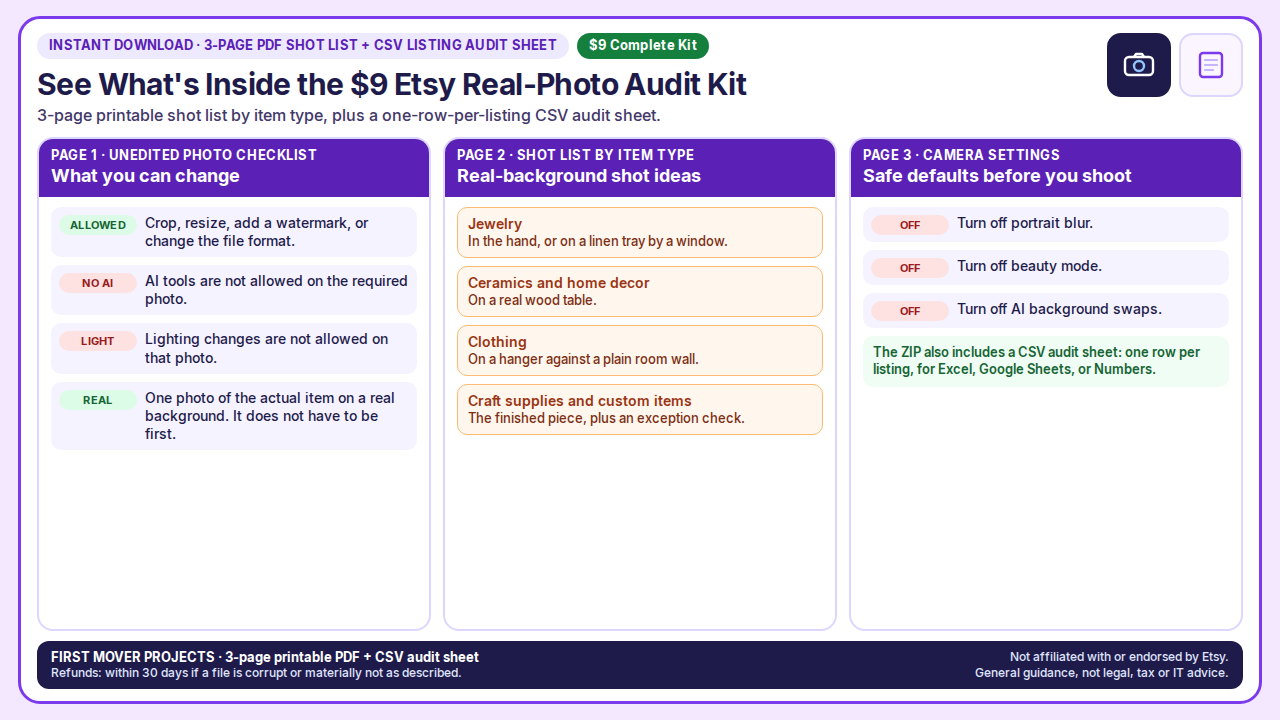
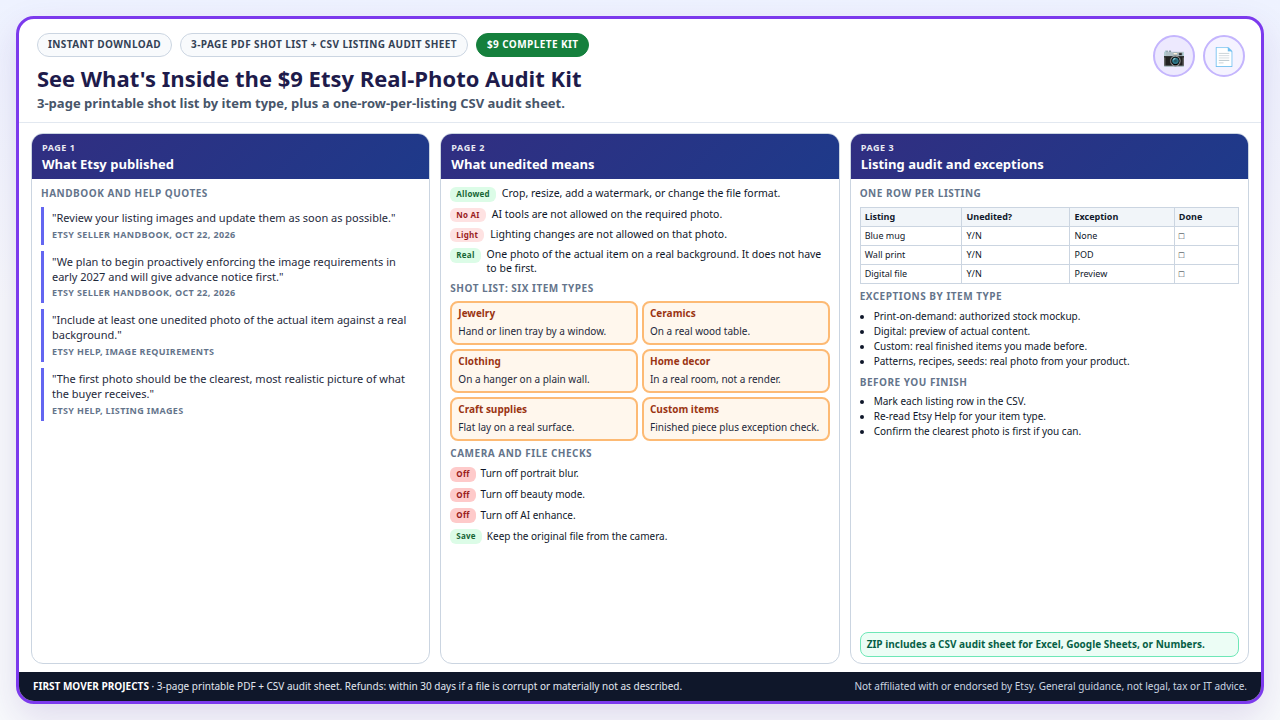
Align Etsy kit preview panels with v1.1.1 PDF pages
The sales-page preview art now maps PAGE 1 to Etsy handbook quotes, PAGE 2 to what unedited means with six shot types and camera checks (AI enhance), and PAGE 3 to the listing audit table, exceptions, and before-you-finish steps. Includes a small render script for the 1280x720 PNG and WebP.

Changed region(s): [[0.0, 0.0306, 1.0, 0.9778]]

diff --git a/scripts/etsy-photo-audit-kit-preview-1280x720.html b/scripts/etsy-photo-audit-kit-preview-1280x720.html
@@ -1,0 +1,341 @@
+<!doctype html>
+<html lang="en">
+<head>
+<meta charset="utf-8">
+<style>
+  * { box-sizing: border-box; margin: 0; padding: 0; }
+  html, body {
+    width: 1280px;
+    height: 720px;
+    overflow: hidden;
+    font: 13px/1.35 system-ui, -apple-system, Segoe UI, Roboto, sans-serif;
+    color: #0f172a;
+    background: linear-gradient(180deg, #eef2ff 0%, #f8fafc 42%, #f8fafc 100%);
+  }
+  .wrap {
+    width: 1248px;
+    height: 688px;
+    margin: 16px;
+    background: #fff;
+    border: 3px solid #7c3aed;
+    border-radius: 18px;
+    box-shadow: 0 14px 36px rgba(76, 29, 149, 0.14);
+    display: flex;
+    flex-direction: column;
+    overflow: hidden;
+  }
+  .top {
+    padding: 14px 18px 10px;
+    border-bottom: 1px solid #e2e8f0;
+    position: relative;
+  }
+  .badges { display: flex; flex-wrap: wrap; gap: 8px; margin-bottom: 8px; }
+  .badge {
+    font-size: 10px;
+    font-weight: 800;
+    letter-spacing: 0.04em;
+    text-transform: uppercase;
+    padding: 4px 10px;
+    border-radius: 999px;
+    border: 1px solid #cbd5e1;
+    color: #334155;
+    background: #f8fafc;
+  }
+  .badge.price {
+    background: #15803d;
+    border-color: #15803d;
+    color: #fff;
+  }
+  h1 {
+    font-size: 22px;
+    line-height: 1.2;
+    color: #1e1b4b;
+    max-width: 920px;
+  }
+  .sub {
+    margin-top: 4px;
+    color: #475569;
+    font-size: 13px;
+    font-weight: 600;
+  }
+  .icons {
+    position: absolute;
+    top: 16px;
+    right: 16px;
+    display: flex;
+    gap: 8px;
+  }
+  .icon {
+    width: 42px;
+    height: 42px;
+    border-radius: 999px;
+    display: grid;
+    place-items: center;
+    font-size: 18px;
+    font-weight: 800;
+    border: 2px solid #c4b5fd;
+    background: #ede9fe;
+    color: #5b21b6;
+  }
+  .icon.doc { background: #f5f3ff; }
+  .cols {
+    flex: 1;
+    display: grid;
+    grid-template-columns: 1fr 1fr 1fr;
+    gap: 10px;
+    padding: 10px 12px 8px;
+    min-height: 0;
+  }
+  .panel {
+    border: 1px solid #cbd5e1;
+    border-radius: 12px;
+    overflow: hidden;
+    display: flex;
+    flex-direction: column;
+    min-height: 0;
+    background: #fff;
+  }
+  .ph {
+    background: linear-gradient(135deg, #312e81 0%, #1e3a8a 100%);
+    color: #fff;
+    padding: 8px 10px 7px;
+  }
+  .ph .k {
+    font-size: 9px;
+    font-weight: 800;
+    letter-spacing: 0.06em;
+    text-transform: uppercase;
+    opacity: 0.9;
+  }
+  .ph .t {
+    margin-top: 2px;
+    font-size: 13px;
+    font-weight: 800;
+    line-height: 1.2;
+  }
+  .pb {
+    padding: 8px 9px 6px;
+    flex: 1;
+    min-height: 0;
+    display: flex;
+    flex-direction: column;
+    gap: 6px;
+  }
+  .sec-title {
+    font-size: 10px;
+    font-weight: 800;
+    text-transform: uppercase;
+    letter-spacing: 0.05em;
+    color: #64748b;
+  }
+  .quote {
+    border-left: 3px solid #6366f1;
+    padding: 4px 0 4px 8px;
+    color: #1e293b;
+    font-size: 11px;
+    line-height: 1.35;
+  }
+  .quote .src {
+    display: block;
+    margin-top: 3px;
+    font-size: 9px;
+    font-weight: 800;
+    color: #64748b;
+    text-transform: uppercase;
+    letter-spacing: 0.04em;
+  }
+  .row {
+    display: grid;
+    grid-template-columns: auto 1fr;
+    gap: 6px;
+    align-items: start;
+    font-size: 10.5px;
+    line-height: 1.3;
+  }
+  .pill {
+    font-size: 8px;
+    font-weight: 800;
+    letter-spacing: 0.03em;
+    padding: 2px 6px;
+    border-radius: 6px;
+    white-space: nowrap;
+  }
+  .ok { background: #dcfce7; color: #166534; }
+  .no { background: #fee2e2; color: #991b1b; }
+  .shot {
+    border: 2px solid #fdba74;
+    border-radius: 8px;
+    padding: 4px 6px;
+    background: #fff7ed;
+  }
+  .shot b {
+    display: block;
+    font-size: 10px;
+    color: #9a3412;
+    margin-bottom: 1px;
+  }
+  .shot span {
+    font-size: 10px;
+    color: #1e293b;
+    line-height: 1.25;
+  }
+  .shots {
+    display: grid;
+    grid-template-columns: 1fr 1fr;
+    gap: 4px;
+  }
+  .check {
+    display: grid;
+    grid-template-columns: auto 1fr;
+    gap: 5px;
+    align-items: center;
+    font-size: 10px;
+  }
+  .off { background: #fecaca; color: #991b1b; }
+  table {
+    width: 100%;
+    border-collapse: collapse;
+    font-size: 9px;
+  }
+  th, td {
+    border: 1px solid #cbd5e1;
+    padding: 3px 4px;
+    text-align: left;
+    vertical-align: top;
+  }
+  th { background: #f1f5f9; font-weight: 800; }
+  .exc li, .finish li {
+    margin-left: 14px;
+    font-size: 10px;
+    line-height: 1.3;
+    margin-bottom: 2px;
+  }
+  .csv {
+    margin-top: auto;
+    background: #ecfdf5;
+    border: 1px solid #6ee7b7;
+    border-radius: 8px;
+    padding: 5px 6px;
+    font-size: 10px;
+    color: #065f46;
+    font-weight: 600;
+    line-height: 1.3;
+  }
+  .foot {
+    background: #0f172a;
+    color: #e2e8f0;
+    padding: 8px 14px;
+    display: flex;
+    justify-content: space-between;
+    gap: 12px;
+    font-size: 10px;
+    line-height: 1.35;
+  }
+  .foot strong { color: #fff; }
+  .foot .r { text-align: right; color: #cbd5e1; }
+</style>
+</head>
+<body>
+<div class="wrap">
+  <div class="top">
+    <div class="badges">
+      <span class="badge">Instant Download</span>
+      <span class="badge">3-Page PDF Shot List + CSV Listing Audit Sheet</span>
+      <span class="badge price">$9 Complete Kit</span>
+    </div>
+    <h1>See What's Inside the $9 Etsy Real-Photo Audit Kit</h1>
+    <p class="sub">3-page printable shot list by item type, plus a one-row-per-listing CSV audit sheet.</p>
+    <div class="icons" aria-hidden="true">
+      <div class="icon">📷</div>
+      <div class="icon doc">📄</div>
+    </div>
+  </div>
+  <div class="cols">
+    <section class="panel">
+      <div class="ph">
+        <div class="k">Page 1</div>
+        <div class="t">What Etsy published</div>
+      </div>
+      <div class="pb">
+        <div class="sec-title">Handbook and help quotes</div>
+        <p class="quote">"Review your listing images and update them as soon as possible."
+          <span class="src">Etsy Seller Handbook, Oct 22, 2026</span>
+        </p>
+        <p class="quote">"We plan to begin proactively enforcing the image requirements in early 2027 and will give advance notice first."
+          <span class="src">Etsy Seller Handbook, Oct 22, 2026</span>
+        </p>
+        <p class="quote">"Include at least one unedited photo of the actual item against a real background."
+          <span class="src">Etsy Help, image requirements</span>
+        </p>
+        <p class="quote">"The first photo should be the clearest, most realistic picture of what the buyer receives."
+          <span class="src">Etsy Help, listing images</span>
+        </p>
+      </div>
+    </section>
+    <section class="panel">
+      <div class="ph">
+        <div class="k">Page 2</div>
+        <div class="t">What unedited means</div>
+      </div>
+      <div class="pb">
+        <div class="row"><span class="pill ok">Allowed</span><span>Crop, resize, add a watermark, or change the file format.</span></div>
+        <div class="row"><span class="pill no">No AI</span><span>AI tools are not allowed on the required photo.</span></div>
+        <div class="row"><span class="pill no">Light</span><span>Lighting changes are not allowed on that photo.</span></div>
+        <div class="row"><span class="pill ok">Real</span><span>One photo of the actual item on a real background. It does not have to be first.</span></div>
+        <div class="sec-title">Shot list: six item types</div>
+        <div class="shots">
+          <div class="shot"><b>Jewelry</b><span>Hand or linen tray by a window.</span></div>
+          <div class="shot"><b>Ceramics</b><span>On a real wood table.</span></div>
+          <div class="shot"><b>Clothing</b><span>On a hanger on a plain wall.</span></div>
+          <div class="shot"><b>Home decor</b><span>In a real room, not a render.</span></div>
+          <div class="shot"><b>Craft supplies</b><span>Flat lay on a real surface.</span></div>
+          <div class="shot"><b>Custom items</b><span>Finished piece plus exception check.</span></div>
+        </div>
+        <div class="sec-title">Camera and file checks</div>
+        <div class="check"><span class="pill off">Off</span><span>Turn off portrait blur.</span></div>
+        <div class="check"><span class="pill off">Off</span><span>Turn off beauty mode.</span></div>
+        <div class="check"><span class="pill off">Off</span><span>Turn off AI enhance.</span></div>
+        <div class="check"><span class="pill ok">Save</span><span>Keep the original file from the camera.</span></div>
+      </div>
+    </section>
+    <section class="panel">
+      <div class="ph">
+        <div class="k">Page 3</div>
+        <div class="t">Listing audit and exceptions</div>
+      </div>
+      <div class="pb">
+        <div class="sec-title">One row per listing</div>
+        <table>
+          <thead>
+            <tr><th>Listing</th><th>Unedited?</th><th>Exception</th><th>Done</th></tr>
+          </thead>
+          <tbody>
+            <tr><td>Blue mug</td><td>Y/N</td><td>None</td><td>□</td></tr>
+            <tr><td>Wall print</td><td>Y/N</td><td>POD</td><td>□</td></tr>
+            <tr><td>Digital file</td><td>Y/N</td><td>Preview</td><td>□</td></tr>
+          </tbody>
+        </table>
+        <div class="sec-title">Exceptions by item type</div>
+        <ul class="exc">
+          <li>Print-on-demand: authorized stock mockup.</li>
+          <li>Digital: preview of actual content.</li>
+          <li>Custom: real finished items you made before.</li>
+          <li>Patterns, recipes, seeds: real photo from your product.</li>
+        </ul>
+        <div class="sec-title">Before you finish</div>
+        <ul class="finish">
+          <li>Mark each listing row in the CSV.</li>
+          <li>Re-read Etsy Help for your item type.</li>
+          <li>Confirm the clearest photo is first if you can.</li>
+        </ul>
+        <p class="csv">ZIP includes a CSV audit sheet for Excel, Google Sheets, or Numbers.</p>
+      </div>
+    </section>
+  </div>
+  <footer class="foot">
+    <div><strong>FIRST MOVER PROJECTS</strong> · 3-page printable PDF + CSV audit sheet. Refunds: within 30 days if a file is corrupt or materially not as described.</div>
+    <div class="r">Not affiliated with or endorsed by Etsy. General guidance, not legal, tax or IT advice.</div>
+  </footer>
+</div>
+</body>
+</html>
